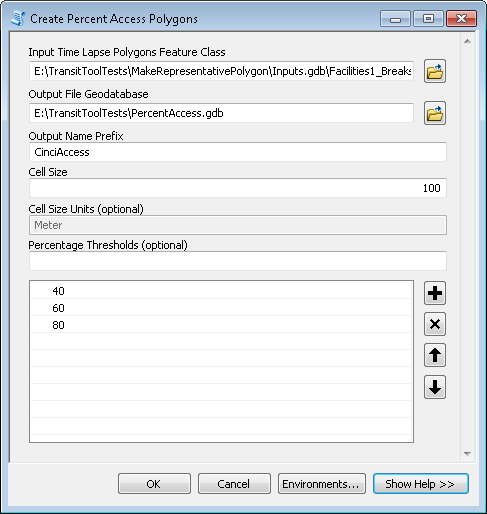
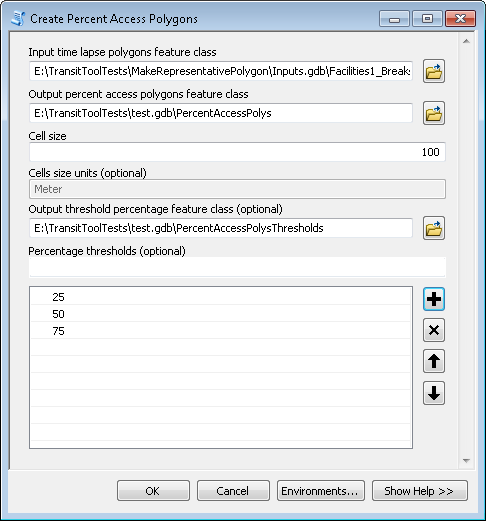
Make user specify two output fcs instead of output gdb; use scratchGDB for intermediate outputs

diff --git a/add-GTFS-to-a-network-dataset/scripts/CreatePercentAccessPolygon.py b/add-GTFS-to-a-network-dataset/scripts/CreatePercentAccessPolygon.py
@@ -3,7 +3,7 @@
 ## Tool name: Create Percent Access Polygons
 ## Created by: David Wasserman, Fehr & Peers, https://github.com/d-wasserman
 ##        and: Melinda Morang, Esri
-## Last updated: 6 September 2018
+## Last updated: 8 September 2018
 ################################################################################
 ''''''
 ################################################################################
@@ -190,22 +190,21 @@ def create_percent_access_polys(raw_cell_counts, percents, out_fc, fields_to_pre
 def main():
 
     arcpy.env.overwriteOutput = True
+    # Use the scratchGDB as a holder for temporary output
+    scratchgdb = arcpy.env.scratchGDB
 
     # Feature class of polygons created by the Prepare Time Lapse Polygons tool
     # The feature class must be in a projected coordinate system, but this is checked in tool validation
     in_time_lapse_polys = arcpy.GetParameterAsText(0)
-    # Outputs will be in the selected gdb and will be prepended by the name specified by the user
-    # Must be a file geodatabase. Checked in tool validation.
-    outgdb = arcpy.GetParameterAsText(1)
-    out_name_prefix = arcpy.GetParameterAsText(2)
+    out_cell_counts_fc = arcpy.GetParameterAsText(1)
     # Raster cell size for output (length or width of cell, not area)
-    cell_size = float(arcpy.GetParameterAsText(3))
+    cell_size = float(arcpy.GetParameterAsText(2))
+    out_percents_fc = arcpy.GetParameterAsText(4)
     # List of percent of times accessed to summarize in results
-    percents = arcpy.GetParameter(5)
-
-    # Define output feature classes
-    out_cell_counts_fc = os.path.join(outgdb, arcpy.ValidateFieldName(out_name_prefix + "_Raw", outgdb))
-    out_percents_fc = os.path.join(outgdb, arcpy.ValidateFieldName(out_name_prefix + "_Percents", outgdb))
+    if not out_percents_fc:
+        percents = []
+    else:
+        percents = arcpy.GetParameter(5)
 
     # Hard-coded "options"
     # Field names that must be in the input time lapse polygons
@@ -221,7 +220,7 @@ def main():
 
     # Create the raster-like polygons we'll use later with spatial joins.
     arcpy.AddMessage("Rasterizing time lapse polygons...")
-    poly_raster_template_fc = create_polygon_raster_template(in_time_lapse_polys, outgdb, cell_size)
+    poly_raster_template_fc = create_polygon_raster_template(in_time_lapse_polys, scratchgdb, cell_size)
 
     # Figure out the unique combinations of FacilityID, FromBreak, and ToBreak in the input data. Each of these will
     # be processed sequentially and get a separate output.
@@ -238,8 +237,8 @@ def main():
 
     # For each set of time lapse polygons, generate the cell-like counts
     first = True
-    temp_spatial_join_fc = os.path.join(outgdb, "Temp_" + guid + "_SpatialJoin")
-    temp_raw_dissolve_fc = os.path.join(outgdb, "Temp_" + guid + "_RawDissolve")
+    temp_spatial_join_fc = os.path.join(scratchgdb, "Temp_" + guid + "_SpatialJoin")
+    temp_raw_dissolve_fc = os.path.join(scratchgdb, "Temp_" + guid + "_RawDissolve")
     for combo in unique_output_combos:
         facility_id = combo[0]
         from_break = combo[1]
@@ -254,7 +253,7 @@ def main():
         # Select the subset of polygons for this FacilityID/FromBreak/ToBreak combo
         # Note: Don't use a feature layer and Select By Attributes because of a bug with field mapping in Spatial Join
         # in 10.6 which caused field maps to be ignored for layers.
-        temp_selected_polys = os.path.join(outgdb, "Temp_" + guid + "_SelectedPolys")
+        temp_selected_polys = os.path.join(scratchgdb, "Temp_" + guid + "_SelectedPolys")
         if facility_id is None:
             facility_query = arcpy.AddFieldDelimiters(in_time_lapse_polys, facility_id_field) + " IS NULL"
         else:
@@ -305,11 +304,6 @@ def main():
     for temp_output in clean_up:
         if arcpy.Exists(temp_output):
             arcpy.management.Delete(temp_output)
-
-    # Set outputs
-    arcpy.SetParameter(6, out_cell_counts_fc)
-    if percents:
-        arcpy.SetParameter(7, out_percents_fc)
 
 
 if __name__ == '__main__':

diff --git a/add-GTFS-to-a-network-dataset/UsersGuide_TransitAnalysisTools.md b/add-GTFS-to-a-network-dataset/UsersGuide_TransitAnalysisTools.md
@@ -144,22 +144,17 @@ The input to the *Create Percent Access Polygons* is a polygon feature class cre
 ![Screenshot of tool dialog](./images/Screenshot_CreatePercentAccessPolygons_Dialog.png)
 
 ### Inputs
-* **Input Time Lapse Polygons Feature Class**: A polygon feature class created using the [*Prepare Time Lapse Polygons* tool](#TimeLapse) that you wish to summarize.  The feature class must be in a projected coordinate system; for best results, use a projected coordinate system that preserves area.  If your *Prepare Time Lapse Polygons* is not projected, you can use the [Project tool](https://desktop.arcgis.com/en/arcmap/latest/tools/data-management-toolbox/project.htm) to project it into an appropriate spatial reference.
-* **Output File Geodatabase**: A file geodatabase where the output feature classes will be written.  It must be a file geodatabase.  It cannot be a folder, a personal geodatabase, or a feature dataset.
-* **Output Name Prefix**: The tool will create multiple feature classes in the output geodatabase. Enter a name to use as a prefix for these outputs.
+* **Input time lapse polygons feature flass**: A polygon feature class created using the [*Prepare Time Lapse Polygons* tool](#TimeLapse) that you wish to summarize.  The feature class must be in a projected coordinate system; for best results, use a projected coordinate system that preserves area.  If your *Prepare Time Lapse Polygons* is not projected, you can use the [Project tool](https://desktop.arcgis.com/en/arcmap/latest/tools/data-management-toolbox/project.htm) to project it into an appropriate spatial reference.
+* **Output percent access polygons feature class**: The main output feature class of the tool.  This output is a raw raster-like polygon feature class showing the number and percentage of time each area covered by your time lapse polygons was reached, intended primarily for visualization.  The individual polygons are dissolved so that all areas reached the same number of times for a unique combination of FacilityID, FromBreak, and ToBreak are combined into one multipart polygon.  The output feature class must be in a geodatabase; it cannot be a shapefile.
 * **Cell Size**: This tool rasterizes the input polygons, essentially turning the study area into little squares.  Choose a size for these squares.  The cell size refers to the width or length of the cell, not the area.  The units for the cell size are the linear units of the projected coordinate system of the input time lapse polygons and are displayed in the Cell Size Units parameter below.  Smaller cell sizes will increase the tool's run time, and you may run out of memory.  Anything smaller than the size of a typical parcel in your city is probably not very useful.
 * **Cell Size Units**: This parameter is for informational purposes only and cannot be set.  It displays the linear units of your input time lapse polygon feature class's spatial reference so that you know what units your Cell Size refers to.
+* **Output threshold percentage feature class** This is an optional output you can choose to produce that further summarizes the output percent access polygons feature class.  If you specify one or more percentage thresholds, this output contains polygons showing the area reached at least as often as your designated percentage thresholds. There will be a separate feature for each percentage threshold for each unique combination of FacilityID, FromBreak, and ToBreak in the input data.
 * **Percentage Thresholds**: You can choose to summarize the tool's raw output for different percentage thresholds.  For example, you can find out what area can be reached at least 75% of start times by setting 75 as one of your percentage thresholds.  More explanation of tool outputs is given below.
 
 ### Outputs
-The tool will create one or two output feature classes in the file geodatabase you specified in the tool inputs.
+In the output percent access polygons feature class, the "Join_Count" field refers to the raw number of time lapse polygons that overlapped this area, or the total number of times this area was reached during the time window.  The "Percent" field refers to the percentage of total times the area was reached.
 
-1. [Output Name Prefix]_Raw: Raw raster-like polygon feature class showing the number and percentage of time each area was reached, intended primarily for visualization.  The individual polygons are dissolved so that all areas reached the same number of times for a unique combination of FacilityID, FromBreak, and ToBreak are combined into one multipart polygon.
-2. [Output Name Prefix]_Percents: If you have specified one or more Percentage Thresholds, this output contains polygons showing the area reached at least as often as your designated percentage thresholds. This output is a summarized and dissolved version of the raw raster-like output.  There will be a separate feature for each percentage threshold for each unique combination of FacilityID, FromBreak, and ToBreak in the input data.
-
-In output of type 1. (the "Raw" output), the "Join_Count" field refers to the raw number of polygons that overlapped this area, or the raw number of times this area was reached during the time window.  The "Percent" field refers to the percentage of total times the area was reached.
-
-In output of type 2. (the "Percents" output), the "Percent" field refers to the threshold.  The polygon represents the area reachable at least that percentage of start times.
+In the output threshold percentage feature class, the "Percent" field refers to the threshold.  The polygon represents the area reachable at least that percentage of start times.
 
 In both outputs, the time lapse polygon FacilityID, Name, FromBreak, and ToBreak fields are preserved for informational purposes.
 
